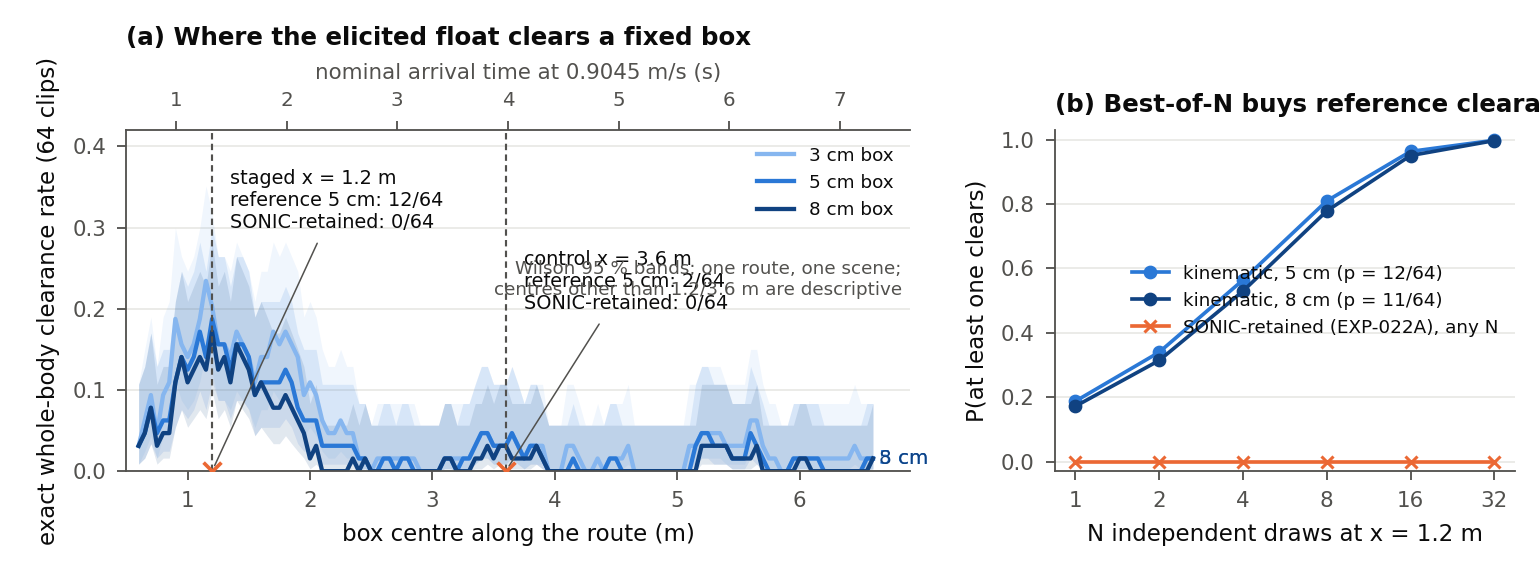
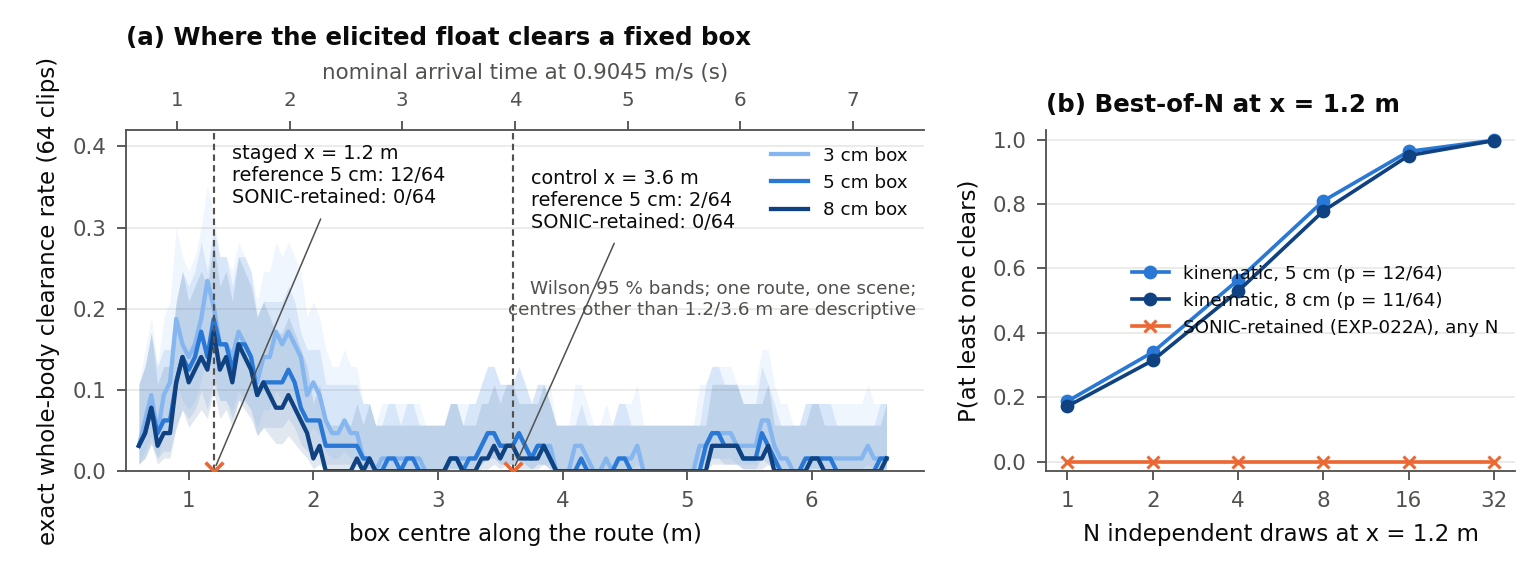
Fig. 4: fix label collisions and clipped title
Claude-Session: https://claude.ai/code/session_01Uk5yjo2YmPcV4nGSehN2m5

diff --git a/experiments/fig_cost_curve.py b/experiments/fig_cost_curve.py
@@ -55,7 +55,6 @@ def main() -> None:
         lo = np.array([r["wilson95"][0] for r in lvl]); hi = np.array([r["wilson95"][1] for r in lvl])
         ax.fill_between(x, lo, hi, color=C_H[h], alpha=0.12, linewidth=0)
         ax.plot(x, p, color=C_H[h], linewidth=1.4, label=f"{int(round(h * 100))} cm box")
-        ax.text(x[-1] + 0.05, p[-1], f"{int(round(h * 100))} cm", fontsize=6.5, color=C_H[h], va="center")
     centres = receipt["at_exp022a_centres"]
     for label, entry in centres.items():
         xc = entry["centre_x_m"]
@@ -64,7 +63,7 @@ def main() -> None:
         ret5 = entry["paired_guarded_retention"]["0.05"]["achieved_guarded_clear"]
         ax.scatter([xc], [ret5 / 64], s=34, marker="x", color=C_TERM, linewidths=1.2, zorder=5)
         ax.annotate(f"{'staged' if label == 'staged' else 'control'} x = {xc:.1f} m\nreference 5 cm: {hits5}/64\n"
-                    f"SONIC-retained: {ret5}/64", xy=(xc, ret5 / 64), xytext=(xc + 0.15, 0.30 if label == "staged" else 0.20),
+                    f"SONIC-retained: {ret5}/64", xy=(xc, ret5 / 64), xytext=(xc + 0.15, 0.33 if label == "staged" else 0.30),
                     fontsize=6.3, color=C_INK, arrowprops=dict(arrowstyle="-", color=C_INK2, linewidth=0.5))
         numbers[label] = entry
     ax.set_xlim(0.5, 6.9); ax.set_ylim(0, 0.42)
@@ -72,7 +71,7 @@ def main() -> None:
     ax.set_ylabel("exact whole-body clearance rate (64 clips)")
     ax.set_title("(a) Where the elicited float clears a fixed box", loc="left")
     ax.legend(loc="upper right", fontsize=6, frameon=False)
-    ax.text(0.99, 0.62, "Wilson 95 % bands; one route, one scene;\ncentres other than 1.2/3.6 m are descriptive",
+    ax.text(0.99, 0.56, "Wilson 95 % bands; one route, one scene;\ncentres other than 1.2/3.6 m are descriptive",
             ha="right", va="top", fontsize=6, color=C_INK2, transform=ax.transAxes)
     style_axis(ax)
     sec = ax.secondary_xaxis("top", functions=(lambda x: x / 0.9045, lambda t: t * 0.9045))
@@ -92,7 +91,7 @@ def main() -> None:
     bx.set_xscale("log", base=2); bx.set_xticks(ns); bx.set_xticklabels([str(n) for n in ns])
     bx.set_ylim(-0.03, 1.03); bx.set_xlabel("N independent draws at x = 1.2 m")
     bx.set_ylabel("P(at least one clears)")
-    bx.set_title("(b) Best-of-N buys reference clearance, not execution", loc="left")
+    bx.set_title("(b) Best-of-N at x = 1.2 m", loc="left")
     bx.legend(loc="center right", fontsize=6, frameon=False)
     style_axis(bx)
     fig.tight_layout(w_pad=1.5)
